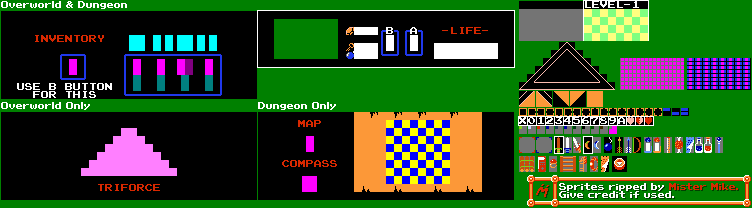
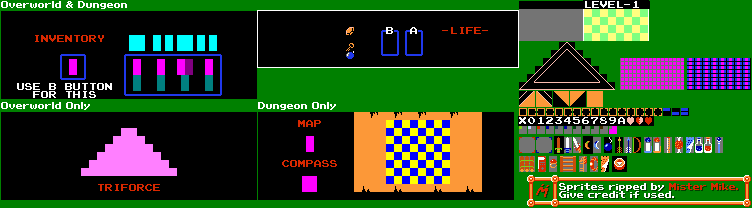
fixed graphics with HUD, now stays with transitions

diff --git a/Classes/Header/playerHUD.cs b/Classes/Header/playerHUD.cs
@@ -3,6 +3,7 @@ using System.Collections.Generic;
 using System.Text;
 using Microsoft.Xna.Framework;
 using CSE3902_Game_Sprint0.Classes.SpriteFactories;
+using CSE3902_Game_Sprint0.Classes.Level;
 
 namespace CSE3902_Game_Sprint0.Classes.Header
 {
@@ -51,7 +52,6 @@ namespace CSE3902_Game_Sprint0.Classes.Header
 
         private Boolean hasMap = false;
 
-
         public float spriteScalar;
         public Vector2 drawLocation;
 
@@ -70,7 +70,7 @@ namespace CSE3902_Game_Sprint0.Classes.Header
             this.digit = HudFactory.Digit(0);
 
             //position of top left corner of hud template is X,Y:
-            X = 135;
+            X = (game.GraphicsDevice.Viewport.Width / ParserUtility.SCALE_FACTOR - ParserUtility.WINDOW_Y_ADJUST / ParserUtility.SCALE_FACTOR) / ParserUtility.GEN_ADJUST - ParserUtility.GEN_ADJUST;
             Y = 25;
             this.hudPosition = new Vector2(X, Y);
             //elements of the Hud will be positioned in reference to X and Y so when Hud is moved, only X and Y need to change:
@@ -97,6 +97,8 @@ namespace CSE3902_Game_Sprint0.Classes.Header
 
         public void Draw()
         {
+
+
             //THIS FILE NEEDS TO BE REFACTORED - I UNDERSTAND THAT IT IS WAY TOO LONG - THIS WAS JUST AN ATTEMPT
 
             //static displays:

diff --git a/Classes/GameState/TransitionState.cs b/Classes/GameState/TransitionState.cs
@@ -7,6 +7,7 @@ using System.Collections.Generic;
 using System.Text;
 using CSE3902_Game_Sprint0.Classes.Items;
 using CSE3902_Game_Sprint0.Classes.Doors;
+using CSE3902_Game_Sprint0.Classes.Header;
 
 namespace CSE3902_Game_Sprint0.Classes.GameState
 {
@@ -54,11 +55,13 @@ namespace CSE3902_Game_Sprint0.Classes.GameState
         private int drawOffset;
         private Collision.Collision.Direction transitionDirection;
         private int animationSpeed = 6;
+
+        private playerHUD pHUD;
        
         public TransitionState(ZeldaGame game, Room oldroom, Room nextroom, Collision.Collision.Direction transitionDirection)
         {
-
             this.game = game;
+            this.pHUD = new playerHUD(game, game.hudSpriteFactory);
             this.oldroom = oldroom;
             this.nextroom = nextroom;
             timer = 128;
@@ -183,7 +186,7 @@ namespace CSE3902_Game_Sprint0.Classes.GameState
             leftDoorNext.Draw(drawLocationLeftDoorNext);
             rightDoorNext.Draw(drawLocationRightDoorNext);
             bottomDoorNext.Draw(drawLocationBottomDoorNext);
-
+            pHUD.Draw();
         }
         public void UpdateCollisions()
         {

diff --git a/Classes/SpriteFactories/HudSpriteFactory.cs b/Classes/SpriteFactories/HudSpriteFactory.cs
@@ -21,7 +21,7 @@ namespace CSE3902_Game_Sprint0.Classes.SpriteFactories
         //this is just the base template sprite. HUD still needs life, map, level, counters to be implemented and updated in real time.
         public UniversalSprite baseHud()
         {
-            return new UniversalSprite(game, hudSpriteSheet, new Rectangle(258, 11, 255, 55), Color.White, SpriteEffects.None, new Vector2(1,1), 10, itemDepth);
+            return new UniversalSprite(game, hudSpriteSheet, new Rectangle(258, 11, 260, 55), Color.White, SpriteEffects.None, new Vector2(1,1), 10, itemDepth);
         }
 
         //public UniversalSprite mapHUD()
@@ -45,7 +45,7 @@ namespace CSE3902_Game_Sprint0.Classes.SpriteFactories
 
         public UniversalSprite levelHUD()
         {
-            return new UniversalSprite(game, hudSpriteSheet, new Rectangle(584, 1, 64, 8), Color.White, SpriteEffects.None, new Vector2(1, 1), 10, itemDepth);
+            return new UniversalSprite(game, hudSpriteSheet, new Rectangle(584, 1, 64, 7), Color.White, SpriteEffects.None, new Vector2(1, 1), 10, itemDepth);
         }
 
         public UniversalSprite primaryWeaponHUD()
